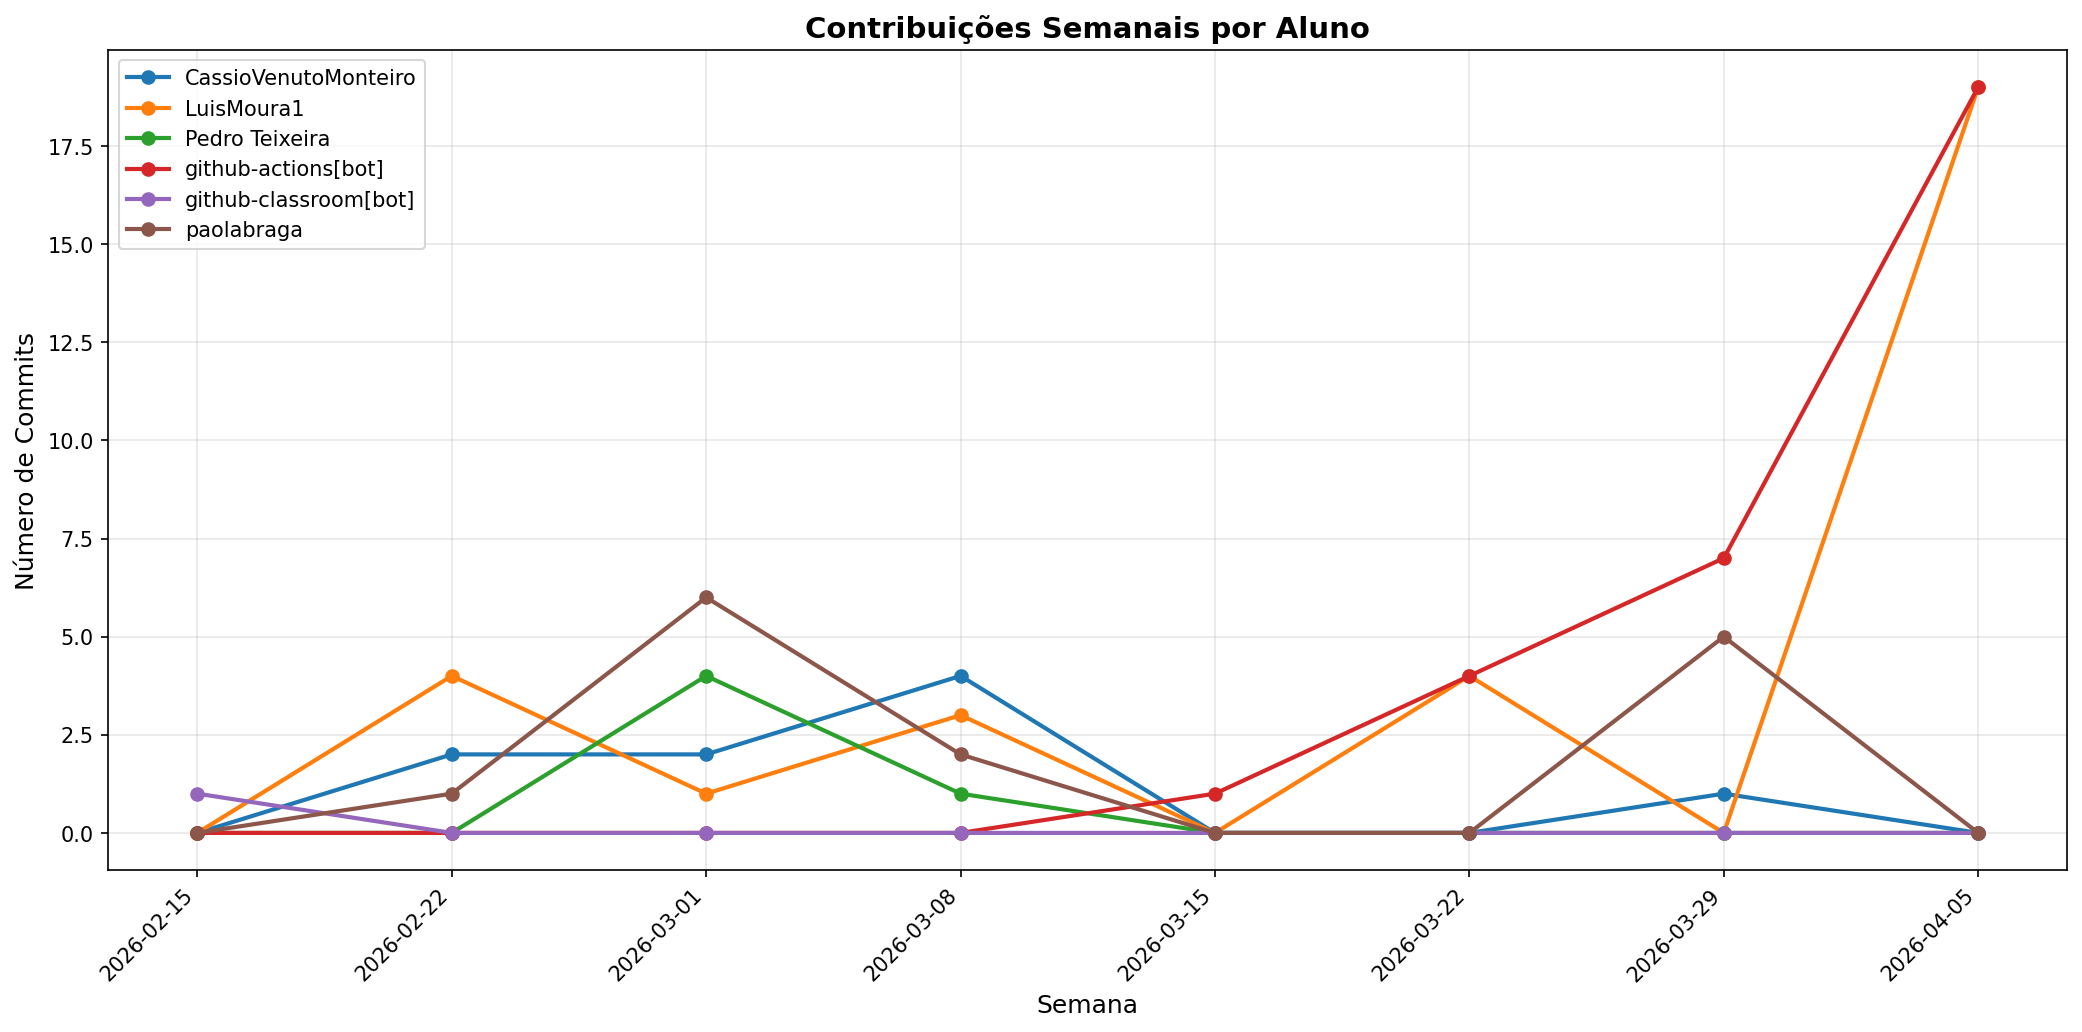
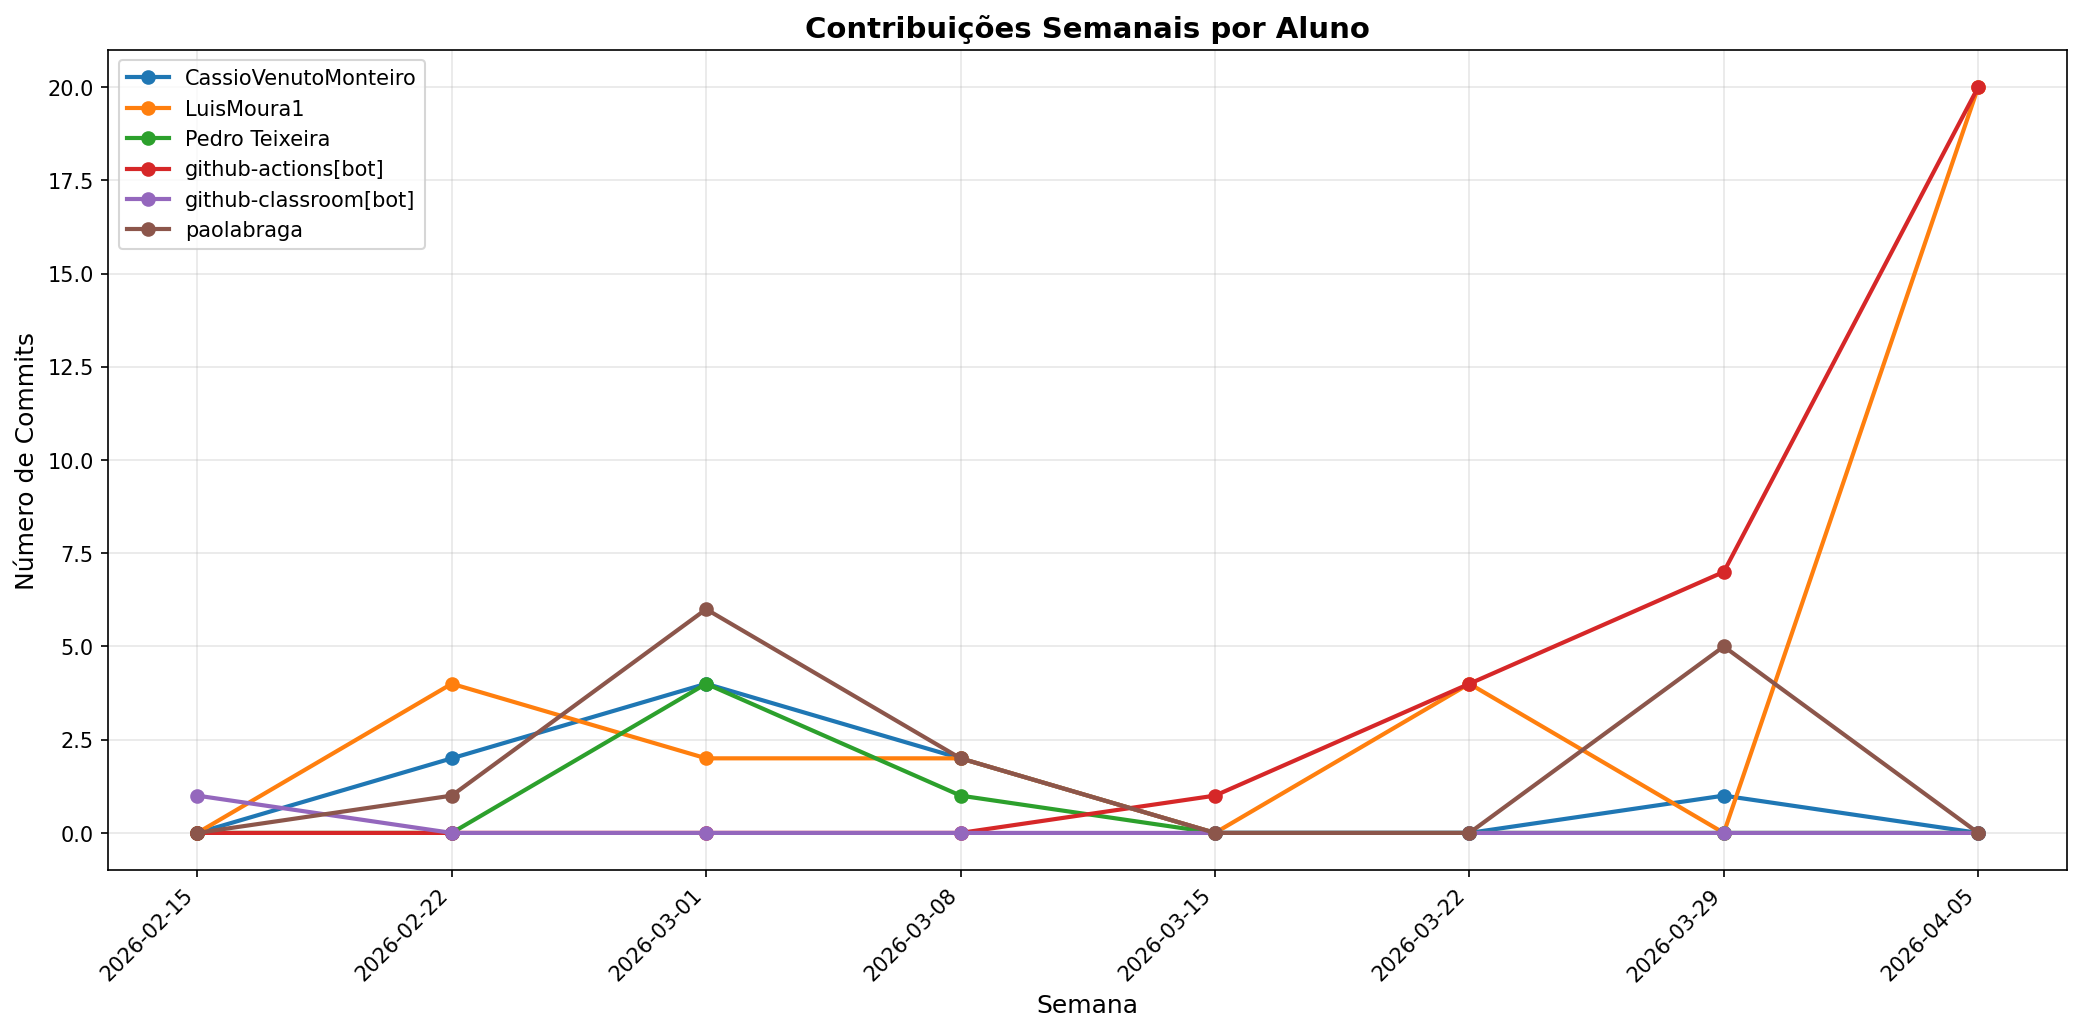
📊 Atualizar relatório de contribuições [skip ci]

diff --git a/docs/CONTRIBUTION_REPORT.md b/docs/CONTRIBUTION_REPORT.md
@@ -1,6 +1,6 @@
 # 📊 Relatório de Contribuições do Projeto
 
-**Última atualização:** 12/04/2026 03:40
+**Última atualização:** 12/04/2026 19:32
 
 ---
 
@@ -9,16 +9,16 @@
 | Aluno                 |   Commits |   Linhas+ |   Linhas- |   Arquivos |   Docs Commits |   Docs Arquivos |
 |-----------------------|-----------|-----------|-----------|------------|----------------|-----------------|
 | CassioVenutoMonteiro  |         9 |        64 |        44 |          3 |              9 |               3 |
-| LuisMoura1            |        31 |       299 |       118 |          4 |             31 |               4 |
+| LuisMoura1            |        32 |       303 |       122 |          4 |             32 |               4 |
 | Pedro Teixeira        |         5 |        97 |        26 |          3 |              5 |               3 |
-| github-actions[bot]   |        31 |       209 |       205 |          3 |             31 |               1 |
+| github-actions[bot]   |        32 |       213 |       209 |          3 |             32 |               1 |
 | github-classroom[bot] |         1 |      2152 |         0 |         45 |              1 |              13 |
 | paolabraga            |        14 |       220 |        56 |          4 |             14 |               4 |
 
 
 ## 📅 Contribuições Semanais (Todo o Semestre)
 
-**2026-04-05**: LuisMoura1: 19, github-actions[bot]: 19
+**2026-04-05**: LuisMoura1: 20, github-actions[bot]: 20
 
 **2026-03-29**: CassioVenutoMonteiro: 1, github-actions[bot]: 7, paolabraga: 5
 
@@ -26,9 +26,9 @@
 
 **2026-03-15**: github-actions[bot]: 1
 
-**2026-03-08**: CassioVenutoMonteiro: 4, LuisMoura1: 3, Pedro Teixeira: 1, paolabraga: 2
+**2026-03-08**: CassioVenutoMonteiro: 2, LuisMoura1: 2, Pedro Teixeira: 1, paolabraga: 2
 
-**2026-03-01**: CassioVenutoMonteiro: 2, LuisMoura1: 1, Pedro Teixeira: 4, paolabraga: 6
+**2026-03-01**: CassioVenutoMonteiro: 4, LuisMoura1: 2, Pedro Teixeira: 4, paolabraga: 6
 
 **2026-02-22**: CassioVenutoMonteiro: 2, LuisMoura1: 4, paolabraga: 1
 
